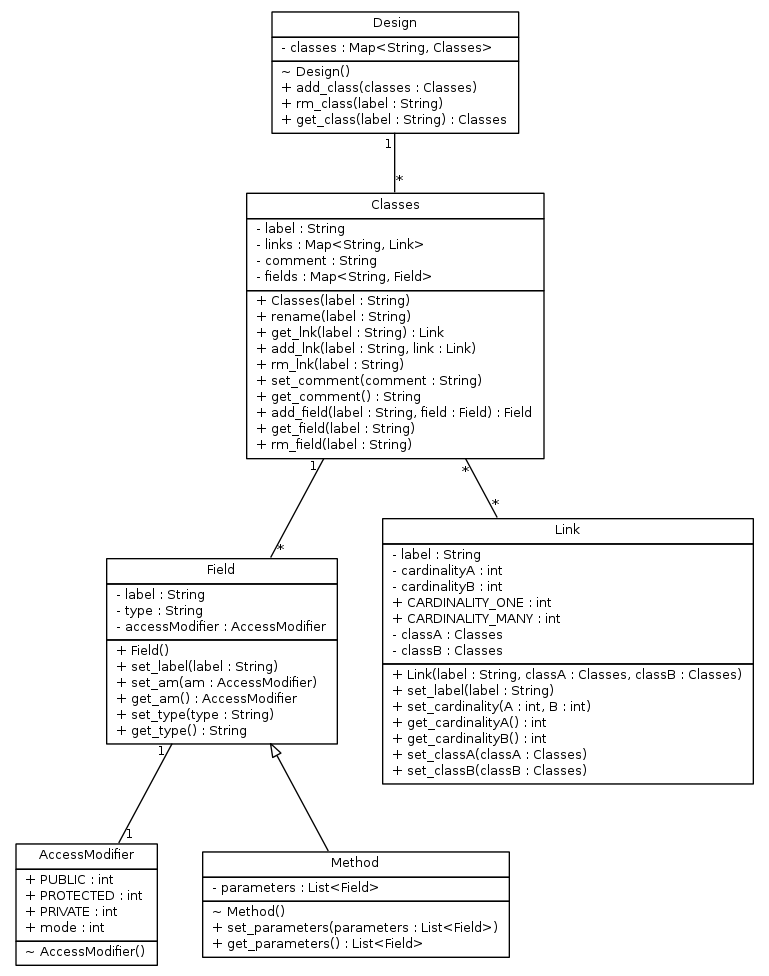
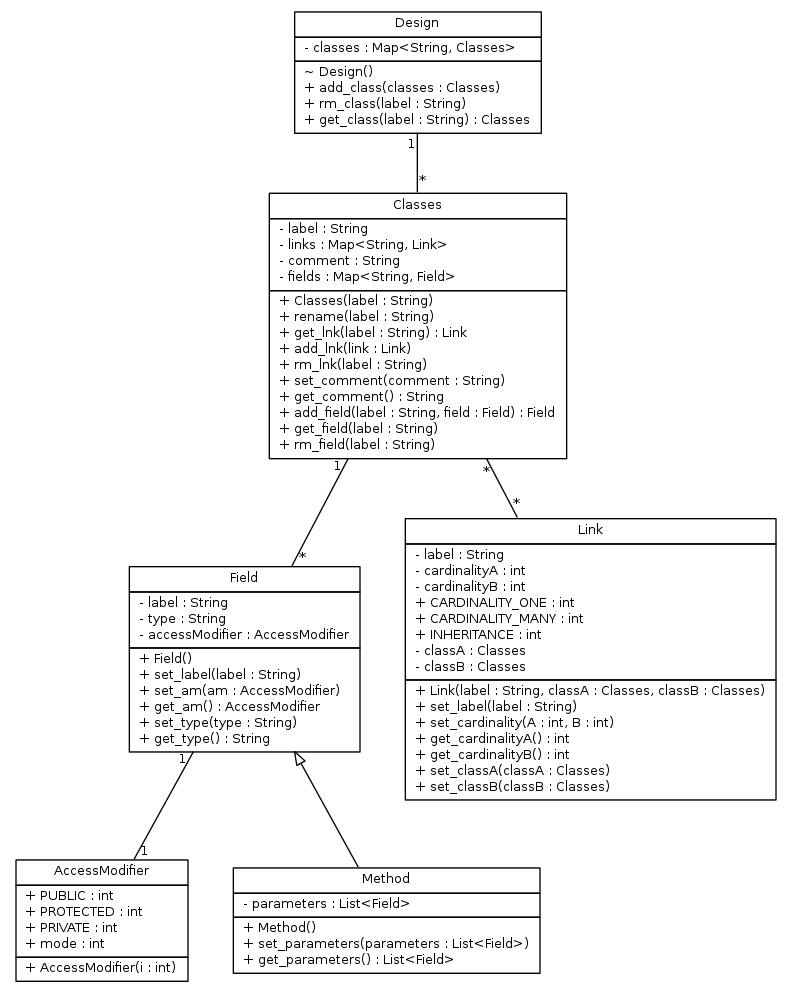
Made corrections to class diagram.java.

Changed region(s): [[0.1248, 0.0, 0.9987, 0.8299], [0.0, 0.8299, 0.6866, 1.0]]

diff --git a/ClassDiagram.java b/ClassDiagram.java
@@ -24,7 +24,7 @@ class Classes {
 	public void rename(String label) {}
 	
 	public Link get_lnk(String label) {}
-	public void add_lnk(String label, Link link) {}
+	public void add_lnk(Link link) {}
 	public void rm_lnk(String label) {}
 
 	public void set_comment(String comment) {}
@@ -65,6 +65,8 @@ class AccessModifier {
 	public int PROTECTED = 1;
 	public int PRIVATE = -1;
 	public int mode;
+
+	public AccessModifier(int i) {}
 }
 
 /**
@@ -74,8 +76,9 @@ class Link {
 	private String label;
 	
 	private int cardinalityA, cardinalityB;
-	public int CARDINALITY_ONE = 1;
-	public int CARDINALITY_MANY = -1;
+	public static int CARDINALITY_ONE = 1;
+	public static int CARDINALITY_MANY = -1;
+	public static int INHERITANCE = 0;
 
 	private Classes classA, classB;
 
@@ -111,5 +114,7 @@ class Method extends Field {
 	
 	public void set_parameters(List<Field> parameters) {}
 	public List<Field> get_parameters() {}
+
+	public Method() {}
 }
 
